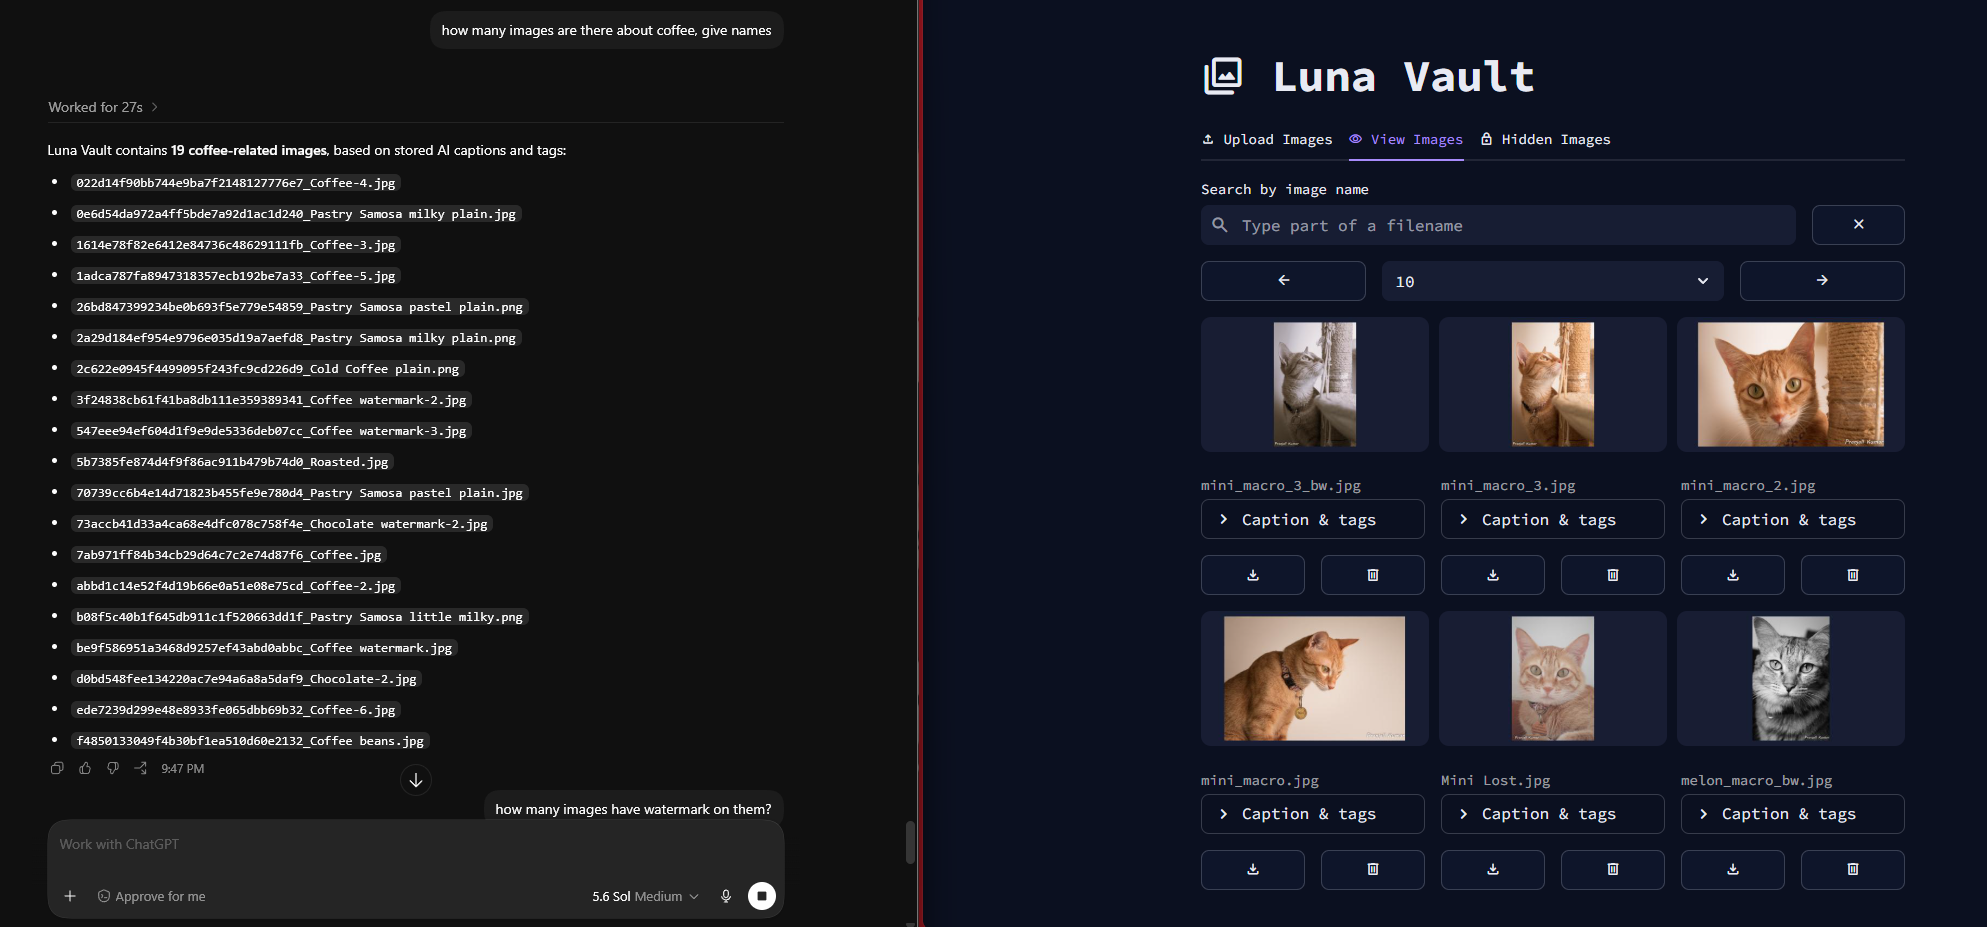
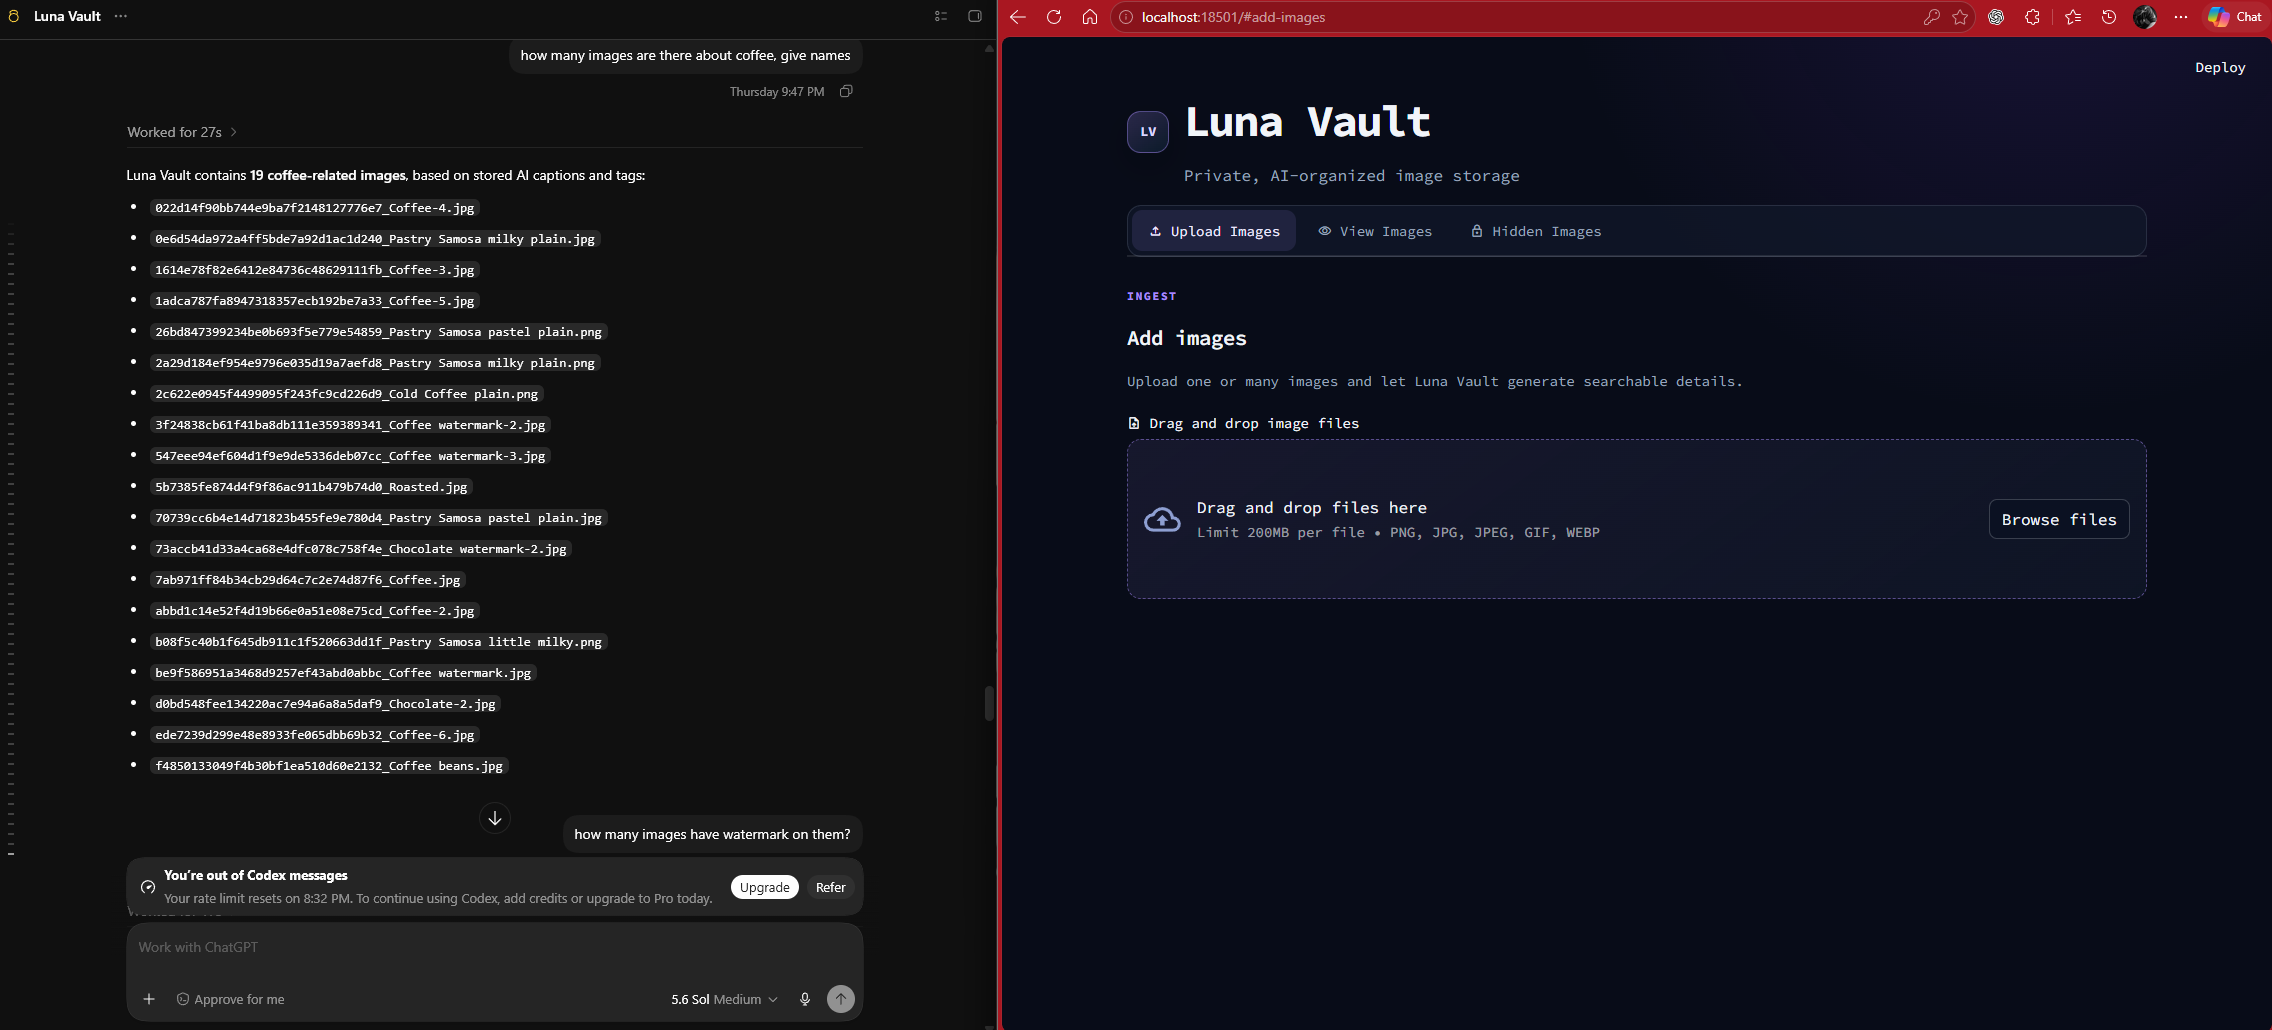
Adding new demo image

diff --git a/README.md b/README.md
@@ -31,16 +31,8 @@ Luna Vault is also well suited to bulk image manipulation and editing workflows.
 Its MCP tools let an AI assistant find and act on groups of images while keeping
 the stored files and their searchable metadata synchronized.
 
-<p align="center">
-  <img src="docs/assets/luna-vault-gallery.png" alt="Searchable Luna Vault image gallery" width="720">
-</p>
-
 The main gallery provides filename search, pagination, AI-generated captions and
 tags, full-size viewing, downloads, and deletion controls.
-
-<p align="center">
-  <img src="docs/assets/luna-vault-hidden-gallery.png" alt="Password-protected Luna Vault hidden gallery" width="720">
-</p>
 
 The hidden vault keeps private images behind a password and supports adding,
 viewing, downloading, restoring, searching, and deleting them separately.
